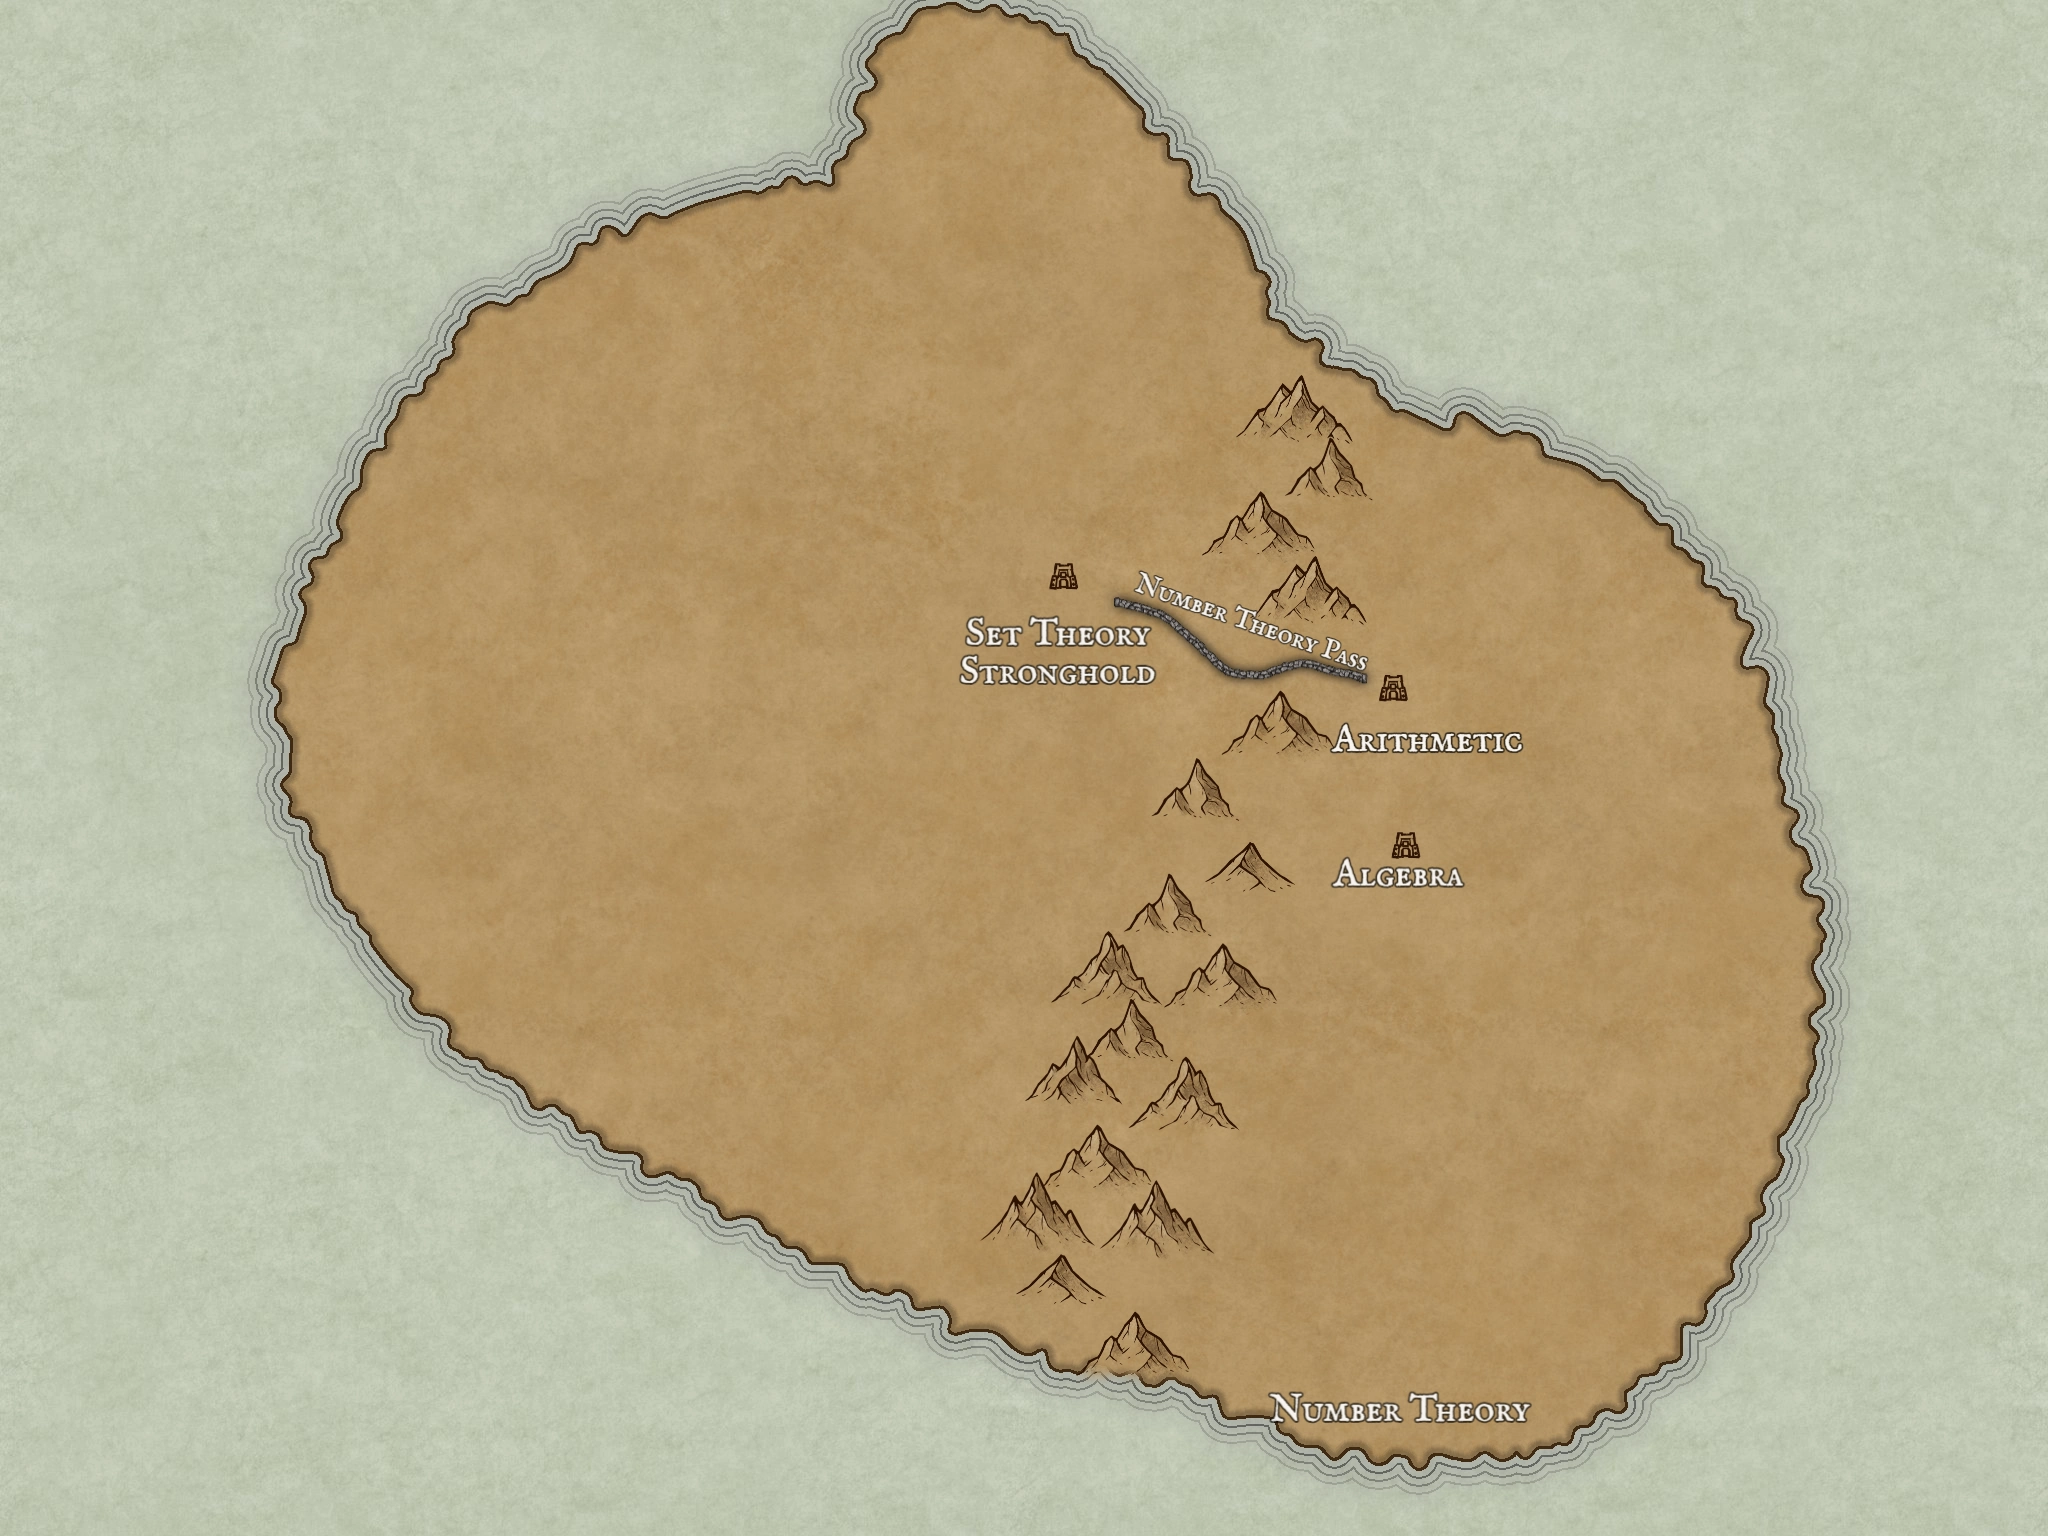
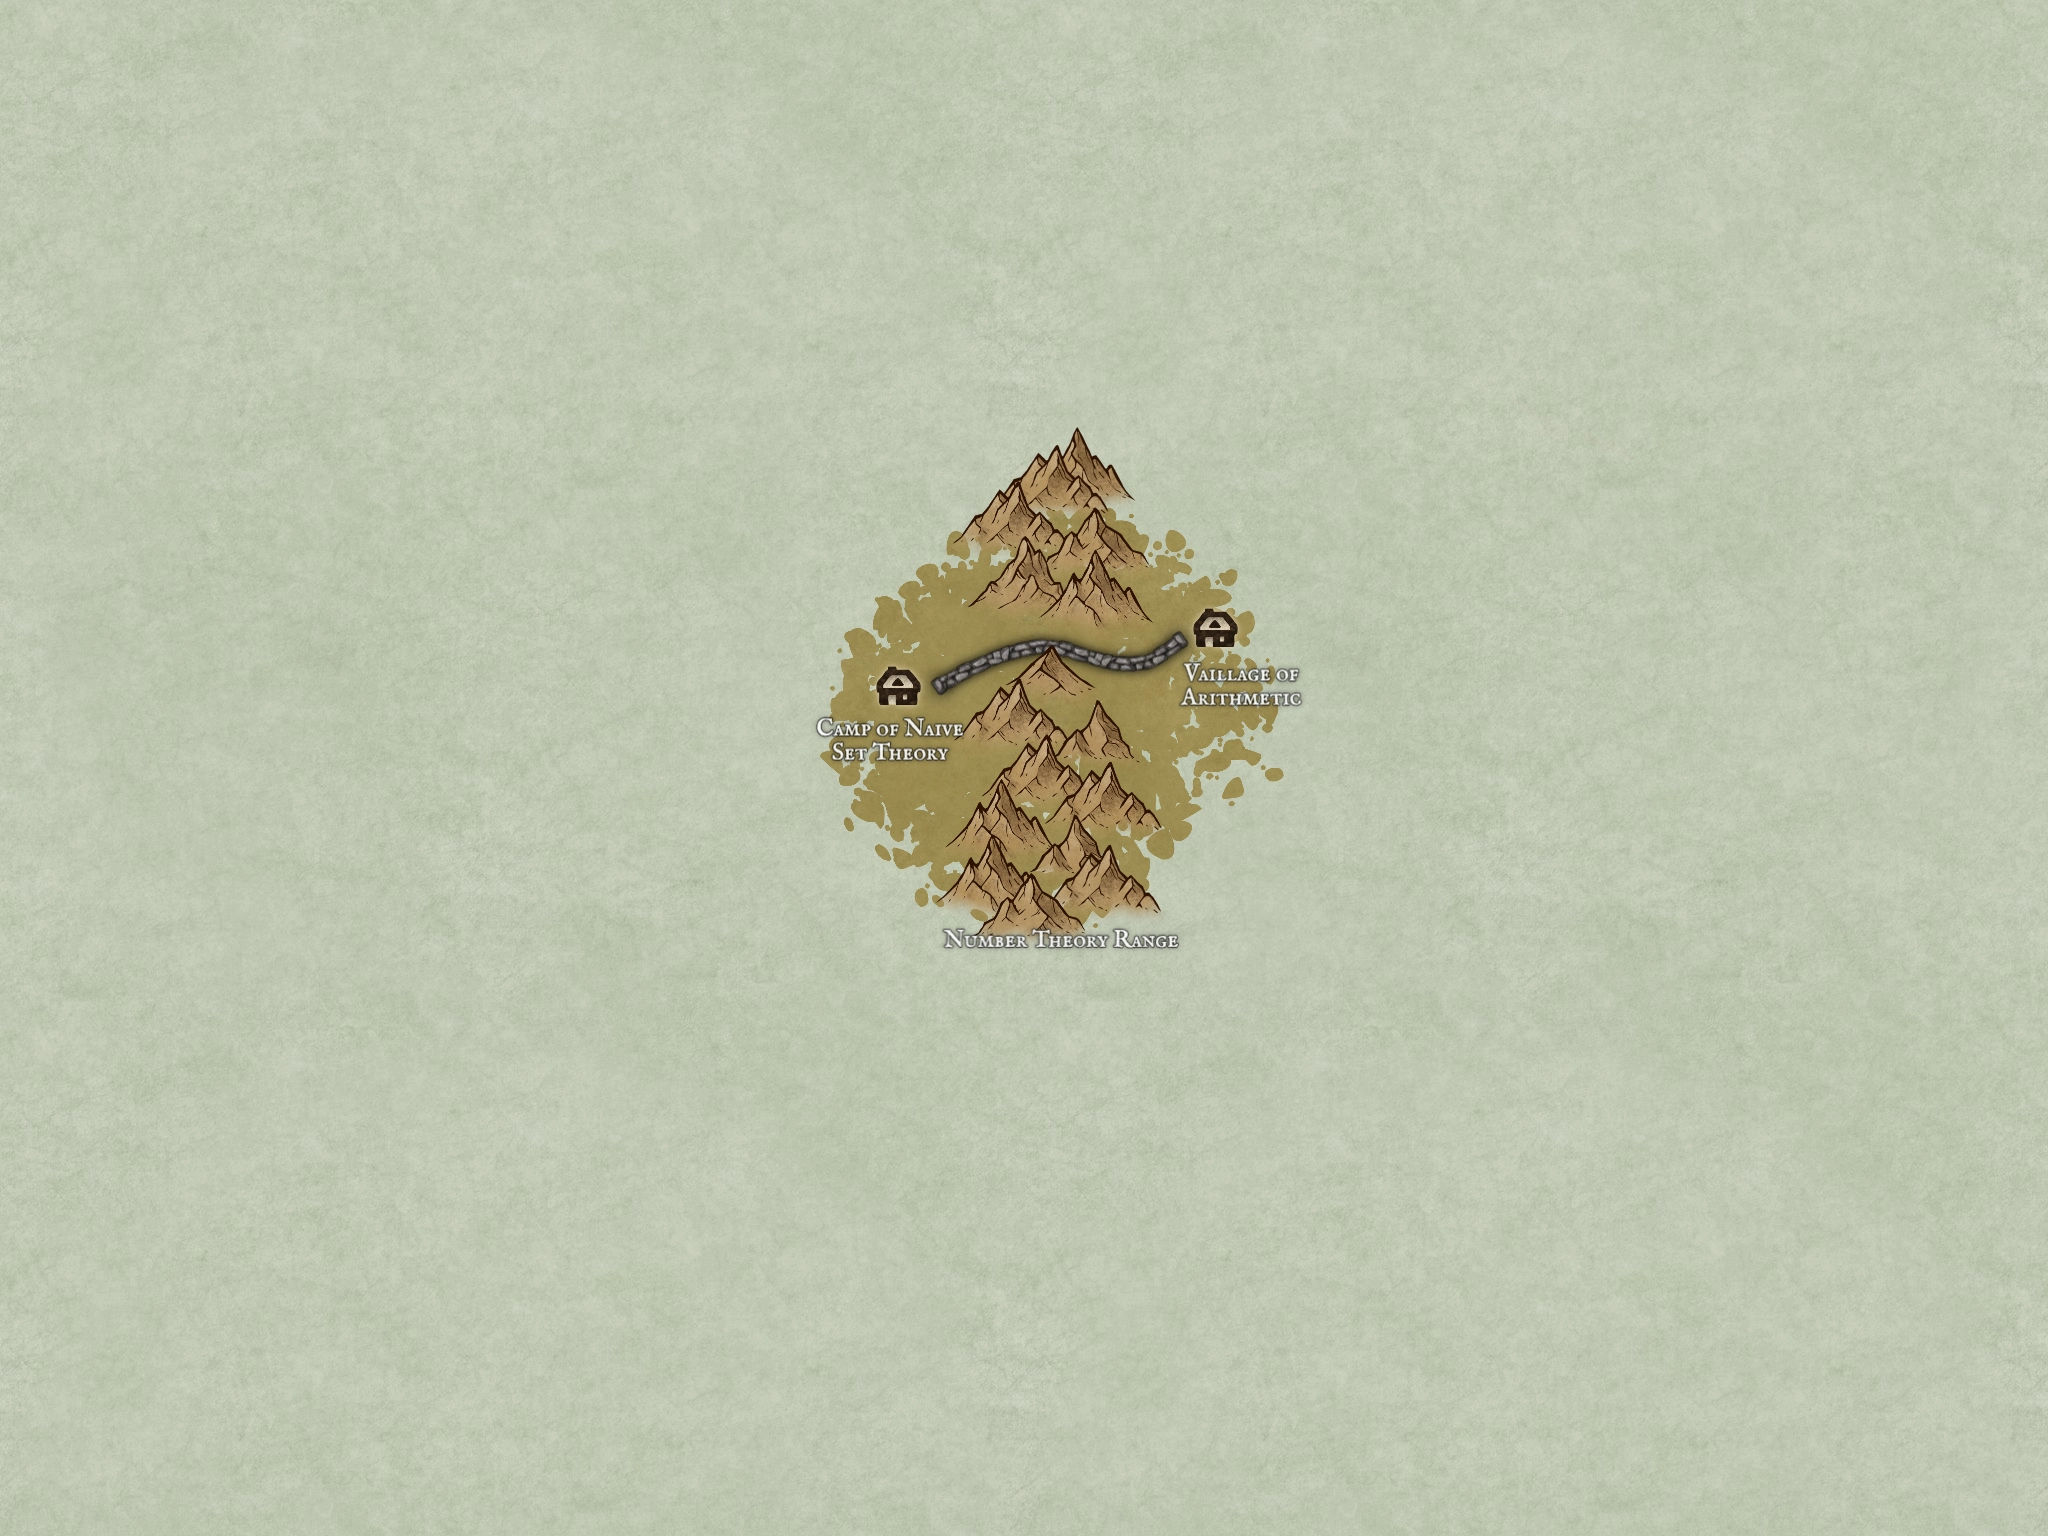
Updated mapth background

diff --git a/readme.md b/readme.md
@@ -1,10 +1,9 @@
 <div style="position: relative">
-    <img src="media/mapth.webp">
-    <svg viewBox="0 0 2048 1536" fill="none" xmlns="http://www.w3.org/2000/svg" style="position: absolute; top: 0; bottom: 0; left: 0; right: 0">
-        <a href="./topics/set_theory.html">
-            <rect x="941" y="546" width="228" height="150" fill="#D9D9D9" fill-opacity="0.5"/>
-        </a>
+    <img src="./media/mapth.webp">
+    <svg viewBox="0 0 2048 1536" fill="none" xmlns="http://www.w3.org/2000/svg" style="position: absolute; top: 0; right: 0; bottom: 0; left: 0">
+        <rect opacity="0" x="808" y="653" width="164" height="120" fill="#D9D9D9" href="./topics/set_theory.html"/>
+        <rect opacity="0" x="1162" y="600" width="151" height="116" fill="#D9D9D9"/>
     </svg>
 </div>
 
-v2 | It's Wargotime ▢
+v3 | It's Wargotime ▢